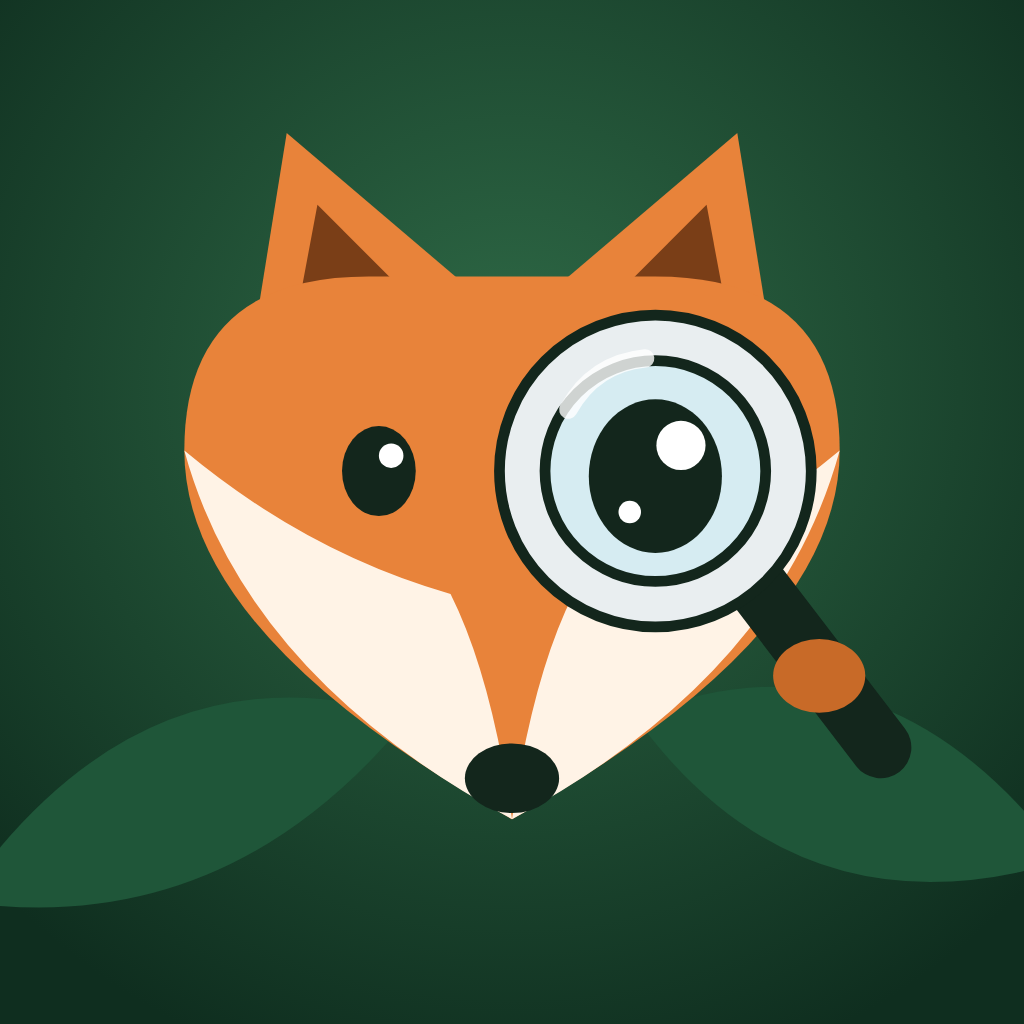
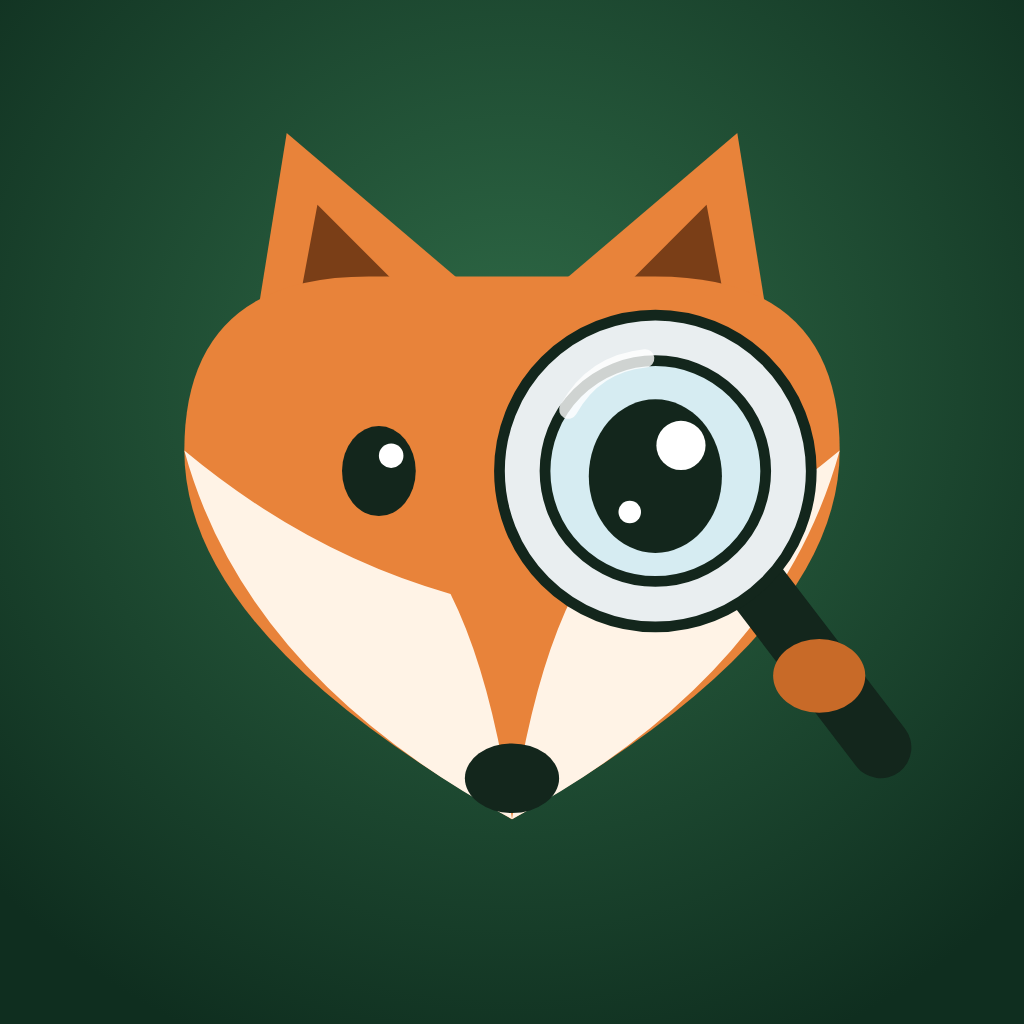
App-Symbol und Startbild clean: Fuchs ohne Blätter
Claude-Session: https://claude.ai/code/session_019SUGMepuuj5Lhm4u6Qdw6q

Changed region(s): [[0.0, 0.7188, 0.25, 0.9062], [0.75, 0.7188, 1.0, 0.875]]

diff --git a/README.md b/README.md
@@ -6,7 +6,7 @@ Beim Bauen der App werden sie nach `assets/` in den Hauptzweig kopiert.
 
 - `assets/icon.png` – App-Symbol 1024 × 1024, ohne Transparenz (iOS rundet die Ecken selbst)
 - `assets/splash-icon.png` – Logo für den Startbildschirm
-- `assets/icon.svg` – Vorlage (aus `src/components/AppLogo.tsx`)
+- `assets/icon.svg` – Vorlage (aus `src/components/AppLogo.tsx`), seit 15.10. ohne Blätter (clean)
 
 ## Bildschirmfotos für den App Store (`store-screenshots/`)
 1320 × 2868 Pixel (6,9-Zoll-iPhone), je 9 Bilder auf Deutsch (`de-…`) und Englisch (`en-…`).
